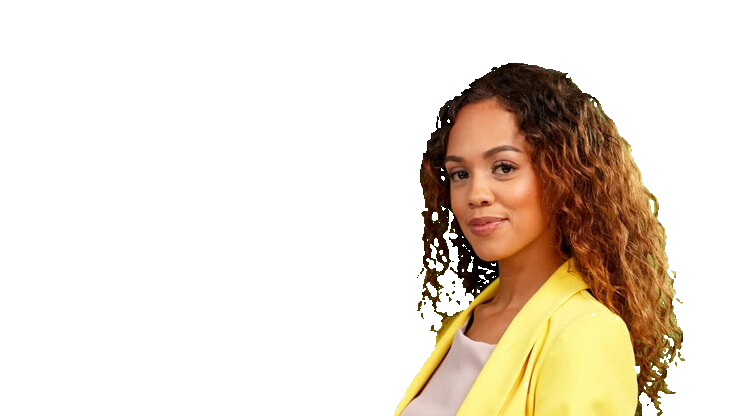
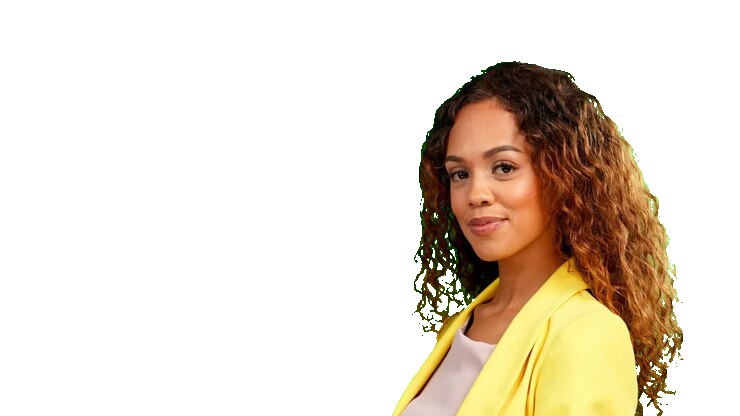
feat: improve background detection and add unit tests

diff --git a/src/main/java/com/kelian/detection/BackgroundDetector.java b/src/main/java/com/kelian/detection/BackgroundDetector.java
@@ -1,5 +1,6 @@
 package com.kelian.detection;
 
+import com.kelian.exception.ImageEmptyException;
 import com.kelian.image.model.ImageData;
 import com.kelian.image.model.Pixel;
 import com.kelian.mask.model.Mask;
@@ -7,18 +8,21 @@ import com.kelian.mask.model.PixelStatus;
 
 public class BackgroundDetector {
 
+    private static final double BACKGROUND_TOLERANCE = 50.0;
+
     public Mask detect(ImageData imageData) {
         Pixel[][] pixels = imageData.getPixels();
         int width = imageData.getWidth();
         int height = imageData.getHeight();
         PixelStatus[][] pixelsStatus = new PixelStatus[height][width];
         Mask mask = new Mask(pixelsStatus);
+        Pixel backgroundColor = estimateBackgroundColor(imageData);
 
         for (int y = 0; y < pixels.length; y++) {
             for (int x = 0; x < pixels[y].length; x++) {
                 Pixel pixel = pixels[y][x];
 
-                if (pixel.getGreen() > pixel.getRed() &&  pixel.getGreen() > pixel.getBlue()) {
+                if (isBackground(pixel, backgroundColor)) {
                     mask.setStatus(x, y, PixelStatus.BACKGROUND);
                 } else {
                     mask.setStatus(x, y, PixelStatus.SUBJECT);
@@ -28,4 +32,85 @@ public class BackgroundDetector {
 
         return mask;
     }
+
+
+    /**
+     * Estimates the average color of the pixels located on the image border.
+     *
+     * @param imageData the image data to analyze
+     * @return a pixel containing the estimated background color
+     */
+    private Pixel estimateBackgroundColor(ImageData imageData) {
+        long redPixelsSum = 0;
+        long greenPixelsSum = 0;
+        long bluePixelsSum = 0;
+        long totalPixels = 0;
+
+        Pixel[][] pixels = imageData.getPixels();
+
+        if (pixels == null || pixels.length == 0) {
+            throw new ImageEmptyException("Image vide ou invalide");
+        }
+
+
+        for (int x = 0; x < pixels[0].length; x++) {
+            redPixelsSum += pixels[0][x].getRed();
+            greenPixelsSum += pixels[0][x].getGreen();
+            bluePixelsSum += pixels[0][x].getBlue();
+            totalPixels++;
+        }
+
+        for (int x = 0; x < pixels[pixels.length - 1].length; x++) {
+            redPixelsSum += pixels[pixels.length - 1][x].getRed();
+            greenPixelsSum += pixels[pixels.length - 1][x].getGreen();
+            bluePixelsSum += pixels[pixels.length - 1][x].getBlue();
+            totalPixels++;
+        }
+
+        for (int y = 1; y < pixels.length - 1; y++) {
+            redPixelsSum += pixels[y][0].getRed();
+            greenPixelsSum += pixels[y][0].getGreen();
+            bluePixelsSum += pixels[y][0].getBlue();
+            redPixelsSum += pixels[y][pixels[y].length - 1].getRed();
+            greenPixelsSum += pixels[y][pixels[y].length - 1].getGreen();
+            bluePixelsSum += pixels[y][pixels[y].length - 1].getBlue();
+            totalPixels += 2;
+        }
+
+
+        int averageRed = (int) (redPixelsSum / totalPixels);
+        int averageGreen = (int) (greenPixelsSum / totalPixels);
+        int averageBlue = (int) (bluePixelsSum / totalPixels);
+
+        int averageColor = (255 << 24)
+                | (averageRed << 16)
+                | (averageGreen << 8)
+                | averageBlue;
+
+        return new Pixel(0, 0, averageColor);
+    }
+
+
+    /**
+     * Checks whether a pixel is considered part of the background.
+     *
+     * @param pixel the pixel to test
+     * @param backgroundColor the estimated background color
+     * @return {@code true} if the pixel color is within the background tolerance;
+     *         {@code false} otherwise
+     */
+    private boolean isBackground(Pixel pixel, Pixel backgroundColor) {
+        int redDifference = pixel.getRed() - backgroundColor.getRed();
+        int greenDifference = pixel.getGreen() - backgroundColor.getGreen();
+        int blueDifference = pixel.getBlue() - backgroundColor.getBlue();
+
+        double distance = Math.sqrt(
+                redDifference * redDifference
+                + greenDifference * greenDifference
+                + blueDifference * blueDifference
+        );
+
+        return distance <= BACKGROUND_TOLERANCE;
+    }
+
 }

diff --git a/src/test/java/BackgroundDetectorTest.java b/src/test/java/BackgroundDetectorTest.java
@@ -1,0 +1,58 @@
+import com.kelian.detection.BackgroundDetector;
+import com.kelian.image.model.ImageData;
+import com.kelian.image.model.Pixel;
+import com.kelian.mask.model.Mask;
+import com.kelian.mask.model.PixelStatus;
+import org.junit.jupiter.api.BeforeEach;
+import org.junit.jupiter.api.Test;
+
+import static org.junit.jupiter.api.Assertions.assertEquals;
+
+class BackgroundDetectorTest {
+    private BackgroundDetector backgroundDetector;
+    private ImageData imageData;
+
+    @BeforeEach
+    void setUp() {
+        backgroundDetector = new BackgroundDetector();
+
+        Pixel[][] pixels = {
+                {
+                        new Pixel(0, 0, 0xFF00FF00),
+                        new Pixel(1, 0, 0xFF00FF00),
+                        new Pixel(2, 0, 0xFF00FF00)
+                },
+                {
+                        new Pixel(0, 1, 0xFF00FF00),
+                        new Pixel(1, 1, 0xFFFF0000),
+                        new Pixel(2, 1, 0xFF00FF00)
+                },
+                {
+                        new Pixel(0, 2, 0xFF00FF00),
+                        new Pixel(1, 2, 0xFF00FF00),
+                        new Pixel(2, 2, 0xFF00FF00)
+                }
+        };
+
+        imageData = new ImageData("image-test", 3, 3, pixels);
+    }
+
+    @Test
+    void shouldDetectPixelCloseToBackgroundColor() {
+        // When
+        Mask mask = backgroundDetector.detect(imageData);
+
+        // Then
+        assertEquals(PixelStatus.BACKGROUND, mask.getStatus(0, 0));
+    }
+
+    @Test
+    void shouldKeepPixelFarFromBackgroundColorAsSubject() {
+        // When
+        Mask mask = backgroundDetector.detect(imageData);
+
+        // Then
+        assertEquals(PixelStatus.SUBJECT, mask.getStatus(1, 1));
+    }
+
+}

diff --git a/src/main/java/com/kelian/exception/ImageEmptyException.java b/src/main/java/com/kelian/exception/ImageEmptyException.java
@@ -1,0 +1,7 @@
+package com.kelian.exception;
+
+public class ImageEmptyException extends RuntimeException {
+    public ImageEmptyException(String message) {
+        super(message);
+    }
+}

diff --git a/src/main/java/com/kelian/exception/ImageLoadException.java b/src/main/java/com/kelian/exception/ImageLoadException.java
@@ -5,6 +5,6 @@ public class ImageLoadException extends RuntimeException {
         super(message);
     }
     public ImageLoadException(String message, Throwable e) {
-        super(message);
+        super(message, e);
     }
 }

diff --git a/README.md b/README.md
@@ -15,7 +15,8 @@ This project focuses on learning concepts such as image representation, pixel ma
 ## Features
 
 - Load an image
-- Detect the background
+- Estimate the background color from image borders
+- Classify pixels using RGB color distance
 - Generate a binary mask
 - Apply transparency
 - Export the result as a PNG image
@@ -42,7 +43,7 @@ flowchart TD
 
 - Java 25
 - Maven
-- JUnit *(in progress)*
+- JUnit 5
 
 ## Installation
 
@@ -89,21 +90,29 @@ Throughout this project, I learned about:
 - Separation of responsibilities (SRP)
 - Custom exception handling
 - Building a modular application with Maven
+- RGB color distance
+- Background color estimation from image borders
+- Unit testing with JUnit 5
+- Continuous integration with GitHub Actions
 
 ## Current Limitations
 
 The current implementation works best with images that have a relatively uniform background.
 
-More challenging cases—such as hair, fur, transparent objects, or complex outlines—are not yet handled accurately. Improving the detection algorithm is one of the main objectives for future versions.
+Pixels near subject edges may still contain traces of the original background color, especially around hair and other fine details. 
+This can produce a visible color halo because the current mask is binary and does not yet support partial transparency or color spill correction.
 
 ## Roadmap
-
 ### Planned Improvements
 
-- [ ] Improve the background detection algorithm
-- [ ] Add mask post-processing (noise removal, smoothing)
+- [x] Improve the background detection algorithm using border color estimation
+- [ ] Make the background tolerance configurable
+- [ ] Add mask post-processing (noise removal, erosion, dilation, smoothing)
+- [ ] Support partial transparency around subject edges
+- [ ] Add green spill suppression
 - [ ] Increase edge quality around the subject
 - [x] Write comprehensive unit tests
+- [x] Add continuous integration with GitHub Actions
 - [ ] Add a command-line interface
 - [ ] Support additional image formats (WebP, TIFF, ...)
 - [ ] Improve project documentation